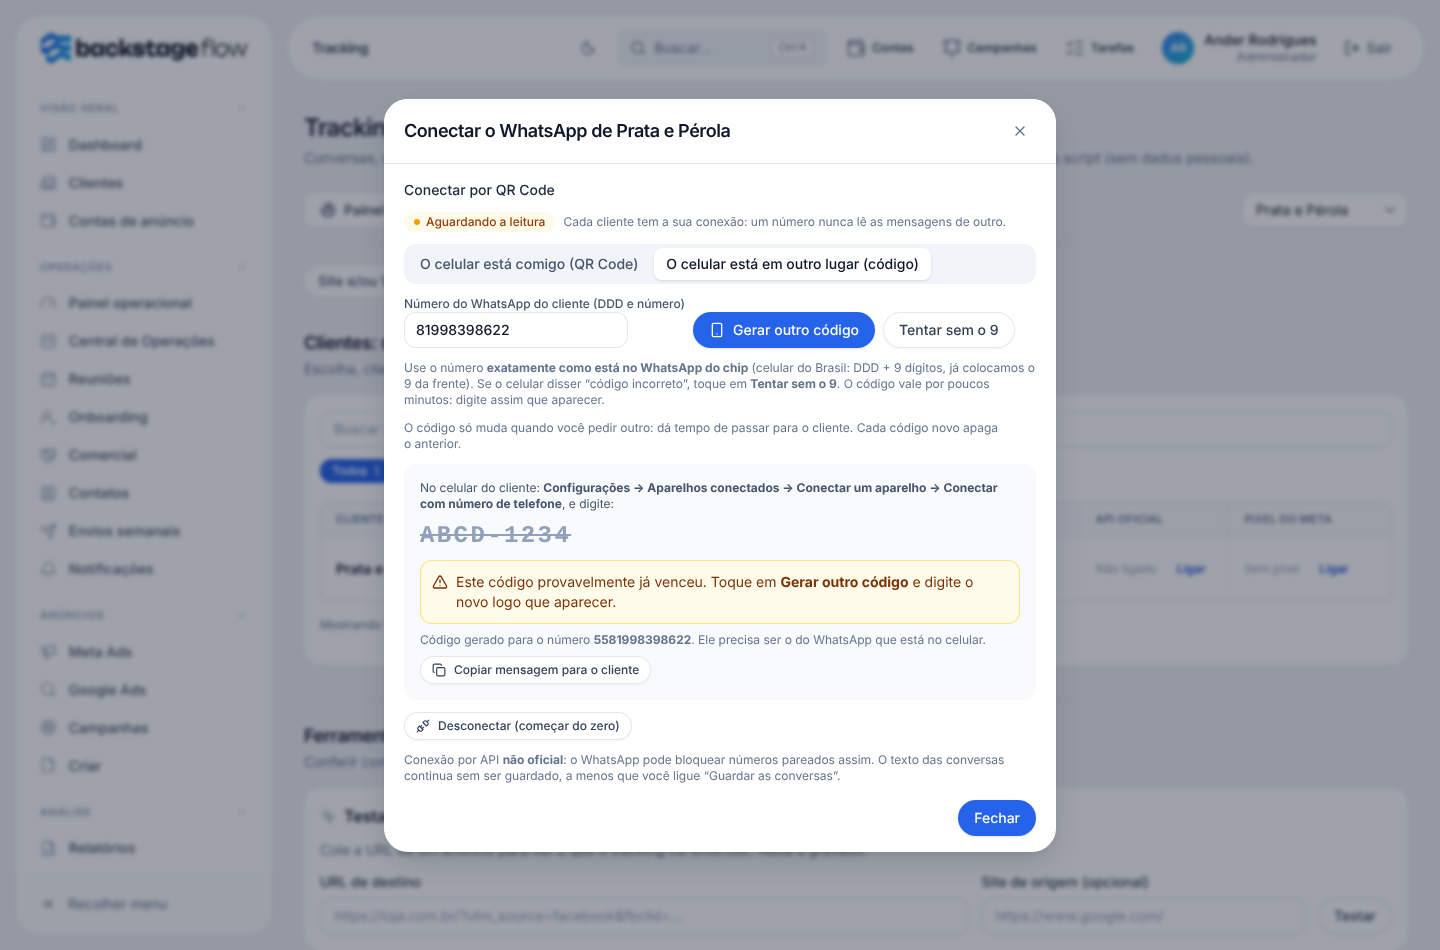
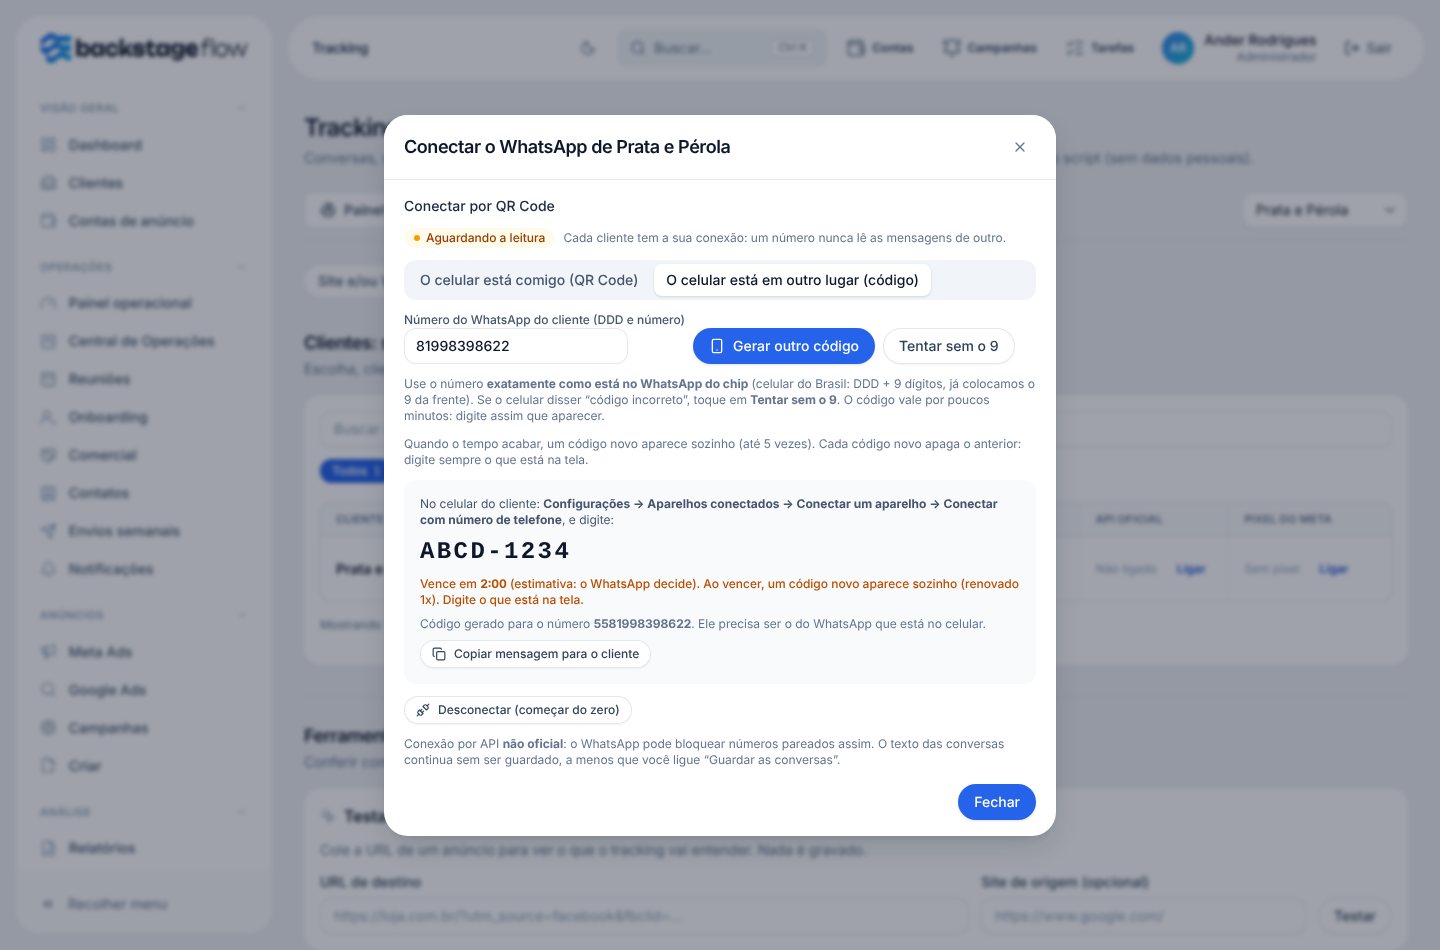
Código de pareamento do WhatsApp: contador 'Vence em' e geração automática de outro código ao vencer (até 5 vezes)
Claude-Session: https://claude.ai/code/session_01A5ivfSd6VbkwRJFYwrhVNk

Changed region(s): [[0.25, 0.0916, 0.75, 0.9158]]

diff --git a/apps/web/src/features/tracking/WaQrSection.tsx b/apps/web/src/features/tracking/WaQrSection.tsx
@@ -28,6 +28,8 @@ const POLL_MAX_MS = 6 * 60_000;
  * Esta é uma ESTIMATIVA conservadora, só para avisar a pessoa na tela; quem decide se vale é o WhatsApp.
  */
 export const CODE_TTL_MS = 120_000;
+/** Quantas vezes o código se renova sozinho ao vencer (depois, a pessoa decide: evita ficar gerando código para ninguém). */
+export const CODE_AUTO_MAX = 5;
 /** "1:40" a partir de milissegundos. */
 export function formatRestante(ms: number): string {
   const total = Math.max(0, Math.ceil(ms / 1000));
@@ -91,21 +93,27 @@ export function WaQrSection({ connection, autoStart = false }: { connection: WaQ
   const started = useRef(false);
   /** Só vale a resposta do pedido MAIS NOVO: um QR automático lento não pode apagar o código gerado depois, nem mostrar erro velho. */
   const reqSeq = useRef(0);
+  const autoCount = useRef(0);
+  const reqPending = useRef(false);
+  const [renovados, setRenovados] = useState(0);
   const waiting = state === "aguardando_leitura";
   const busy = connect.isPending || logout.isPending;
 
   const { mutateAsync: askQr } = connect;
   const { mutateAsync: checkStatus } = status;
 
-  async function start(kind: "qr" | "code" = "qr", numberOverride?: string) {
+  async function start(kind: "qr" | "code" = "qr", numberOverride?: string, auto = false) {
     mode.current = kind;
+    if (!auto) { autoCount.current = 0; setRenovados(0); }
     const my = ++reqSeq.current;
+    reqPending.current = true;
     setPaused(false);
     setError(null);
     setNotice(null);
     try {
       const r = await askQr({ connectionId: connection.id, ...(kind === "code" ? { number: numberOverride ?? codeNumber } : {}) });
       if (my !== reqSeq.current) return;
+      reqPending.current = false;
       setState(r.state);
       setQr(r.qr);
       setCode(r.pairingCode ?? null);
@@ -116,7 +124,7 @@ export function WaQrSection({ connection, autoStart = false }: { connection: WaQ
       qrAt.current = Date.now();
       if (r.state === "conectado") setNotice("WhatsApp conectado. As mensagens deste número já chegam ao CRM.");
     } catch (err) {
-      if (my === reqSeq.current) setError(errorMessage(err));
+      if (my === reqSeq.current) { reqPending.current = false; setError(errorMessage(err)); }
     }
   }
 
@@ -134,6 +142,17 @@ export function WaQrSection({ connection, autoStart = false }: { connection: WaQ
     const t = setInterval(() => setAgora(Date.now()), 1000);
     return () => clearInterval(t);
   }, [code, codeAt]);
+
+  // Código vencido (fim do contador): gera outro SOZINHO, com o mesmo número, até CODE_AUTO_MAX vezes.
+  // Se o pedido falhar, o código velho continua "vencido" e nada se repete em laço: o botão manual segue disponível.
+  const vencidoAgora = codeAt !== null && CODE_TTL_MS - (agora - codeAt) <= 0;
+  useEffect(() => {
+    if (!vencidoAgora || !waiting || mode.current !== "code" || autoCount.current >= CODE_AUTO_MAX || reqPending.current) return;
+    autoCount.current += 1;
+    setRenovados(autoCount.current);
+    void start("code", undefined, true);
+    // eslint-disable-next-line react-hooks/exhaustive-deps
+  }, [vencidoAgora, waiting, codeAt]);
 
   // Enquanto espera a leitura: confere, UMA chamada de cada vez, e renova o QR só quando está para vencer.
   useEffect(() => {
@@ -155,7 +174,7 @@ export function WaQrSection({ connection, autoStart = false }: { connection: WaQ
           return;
         }
         // Só o QR se renova sozinho. O CÓDIGO nunca muda sozinho: quem decide é a pessoa ("Gerar outro código"),
-        // senão o cliente digitaria um código que já foi trocado.
+        // o código só é trocado ao vencer o contador (acima) ou quando a pessoa pede.
         if (mode.current === "qr" && Date.now() - qrAt.current > REFRESH_MS) {
           const mySeq = reqSeq.current;
           const q = await askQr({ connectionId: connection.id });
@@ -282,16 +301,18 @@ export function WaQrSection({ connection, autoStart = false }: { connection: WaQ
                 Use o número <strong>exatamente como está no WhatsApp do chip</strong> (celular do Brasil: DDD + 9 dígitos, já colocamos o 9 da frente).
                 Se o celular disser “código incorreto”, toque em <strong>Tentar sem o 9</strong>. O código vale por poucos minutos: digite assim que aparecer.
               </p>
-              <p className="text-xs text-slate-500">O código só muda quando você pedir outro: dá tempo de passar para o cliente. Cada código novo apaga o anterior.</p>
+              <p className="text-xs text-slate-500">Quando o tempo acabar, um código novo aparece sozinho (até 5 vezes). Cada código novo apaga o anterior: digite sempre o que está na tela.</p>
               {connect.isPending && mode.current === "code" && !code && <p className="text-xs text-slate-500">Gerando... o servidor de WhatsApp pode levar alguns segundos.</p>}
               {waiting && code && mode.current === "code" && (
                 <div className="space-y-2 rounded-xl bg-slate-50 p-4" data-testid="wa-qr-code">
                   <p className="text-xs text-slate-600">No celular do cliente: <strong>Configurações → Aparelhos conectados → Conectar um aparelho → Conectar com número de telefone</strong>, e digite:</p>
                   <p className={`font-mono text-2xl font-semibold tracking-widest ${vencido ? "text-slate-400 line-through" : "text-slate-900"}`} aria-label="Código de pareamento">{code}</p>
                   {restante !== null && (vencido ? (
-                    <Alert tone="warning"><span data-testid="wa-code-vencido">Este código provavelmente já venceu. Toque em <strong>Gerar outro código</strong> e digite o novo logo que aparecer.</span></Alert>
+                    <Alert tone="warning"><span data-testid="wa-code-vencido">{renovados < CODE_AUTO_MAX && !error
+                      ? "Este código venceu. Gerando outro automaticamente..."
+                      : <>Este código venceu e o sistema já renovou {renovados} {renovados === 1 ? "vez" : "vezes"} sozinho. Toque em <strong>Gerar outro código</strong> quando o cliente estiver pronto para digitar.</>}</span></Alert>
                   ) : (
-                    <p className="text-xs font-medium text-amber-700" data-testid="wa-code-restante">Vale por mais cerca de <strong className="tabular-nums">{formatRestante(restante)}</strong> (estimativa: o WhatsApp decide). Digite agora.</p>
+                    <p className="text-xs font-medium text-amber-700" data-testid="wa-code-restante">Vence em <strong className="tabular-nums">{formatRestante(restante)}</strong> (estimativa: o WhatsApp decide). Ao vencer, um código novo aparece sozinho{renovados > 0 ? ` (renovado ${renovados}x)` : ""}. Digite o que está na tela.</p>
                   ))}
                   {codeFor && <p className="text-xs text-slate-500">Código gerado para o número <strong>{codeFor}</strong>. Ele precisa ser o do WhatsApp que está no celular.</p>}
                   <Button variant="secondary" className="px-3 py-1.5 text-xs" onClick={() => void copyMessage()}>

diff --git a/apps/web/src/features/tracking/waQrSection.test.ts b/apps/web/src/features/tracking/waQrSection.test.ts
@@ -1,5 +1,5 @@
 import { describe, expect, it } from "vitest";
-import { altBrPhone, CODE_TTL_MS, formatRestante, numeroComNove } from "./WaQrSection.tsx";
+import { altBrPhone, CODE_AUTO_MAX, CODE_TTL_MS, formatRestante, numeroComNove } from "./WaQrSection.tsx";
 
 describe("numeroComNove (código de pareamento do WhatsApp)", () => {
   it("cadastro sem o 9 da frente ganha o 9 (o caso da Prata e Pérola)", () => {
@@ -29,5 +29,5 @@ describe("contador do código de pareamento", () => {
     expect(formatRestante(0)).toBe("0:00");
     expect(formatRestante(-3_000)).toBe("0:00");
   });
-  it("a estimativa é de 2 minutos", () => expect(CODE_TTL_MS).toBe(120_000));
+  it("a estimativa é de 2 minutos e renova até 5 vezes", () => { expect(CODE_TTL_MS).toBe(120_000); expect(CODE_AUTO_MAX).toBe(5); });
 });

diff --git a/docs/etapa-34-tracking/T5.40-VARIOS-NUMEROS-DE-WHATSAPP.md b/docs/etapa-34-tracking/T5.40-VARIOS-NUMEROS-DE-WHATSAPP.md
@@ -62,3 +62,6 @@ Pedido do Ander: organizar a distribuição das colunas.
 - Teste `e2e/wa-codigo-vence.mjs` (relógio adiantado) e testes unitários do formato. `wa-qr.mjs` ajustado: o campo agora vem com o 9 da frente.
 
 ![Código vencido](imagens/tracking-codigo-vencido.png)
+
+## Código de pareamento renova sozinho (27/11/2026)
+O código por número mostra "Vence em m:ss" (estimativa de 2 min; o prazo real é do WhatsApp). Ao chegar a zero, a tela gera outro código sozinha, com o mesmo número, até 5 vezes seguidas. Depois disso para e pede o clique em "Gerar outro código". Se o pedido falhar, não repete em laço. Teste: `apps/web/e2e/wa-codigo-vence.mjs`.
